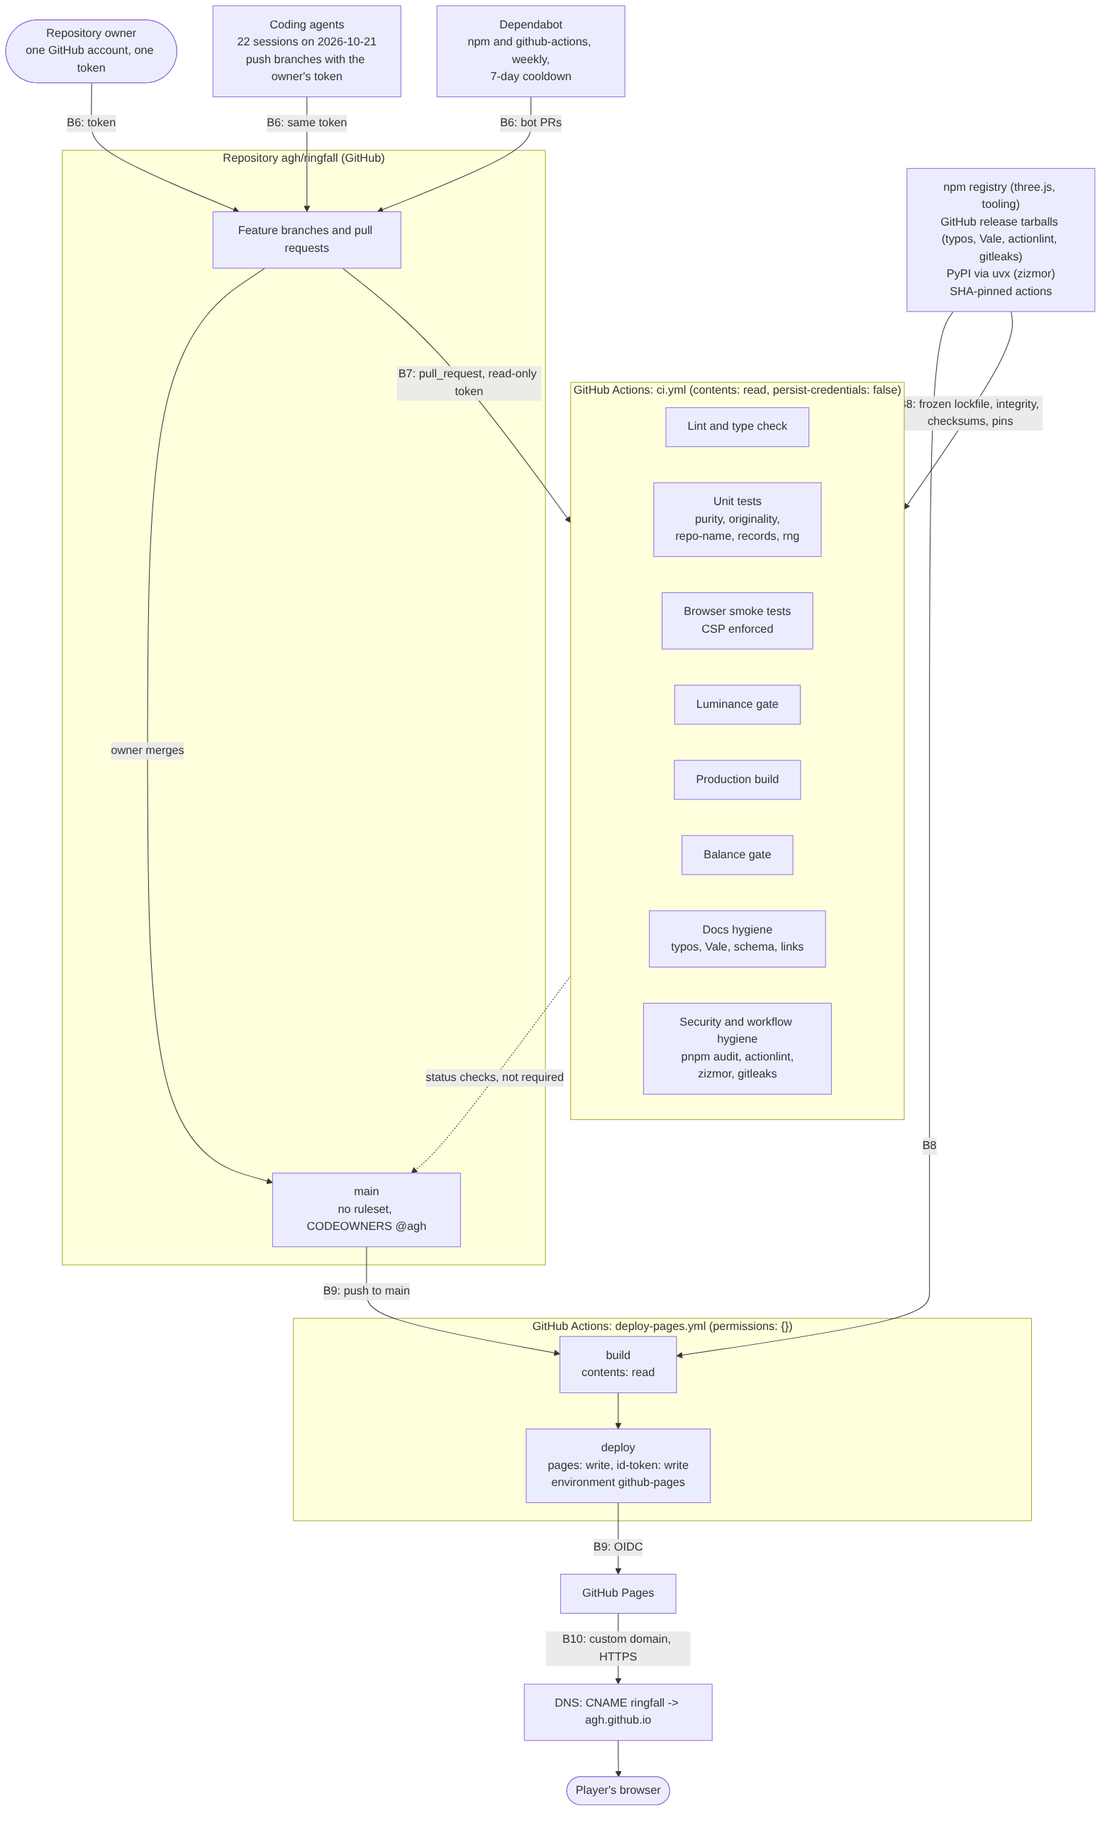
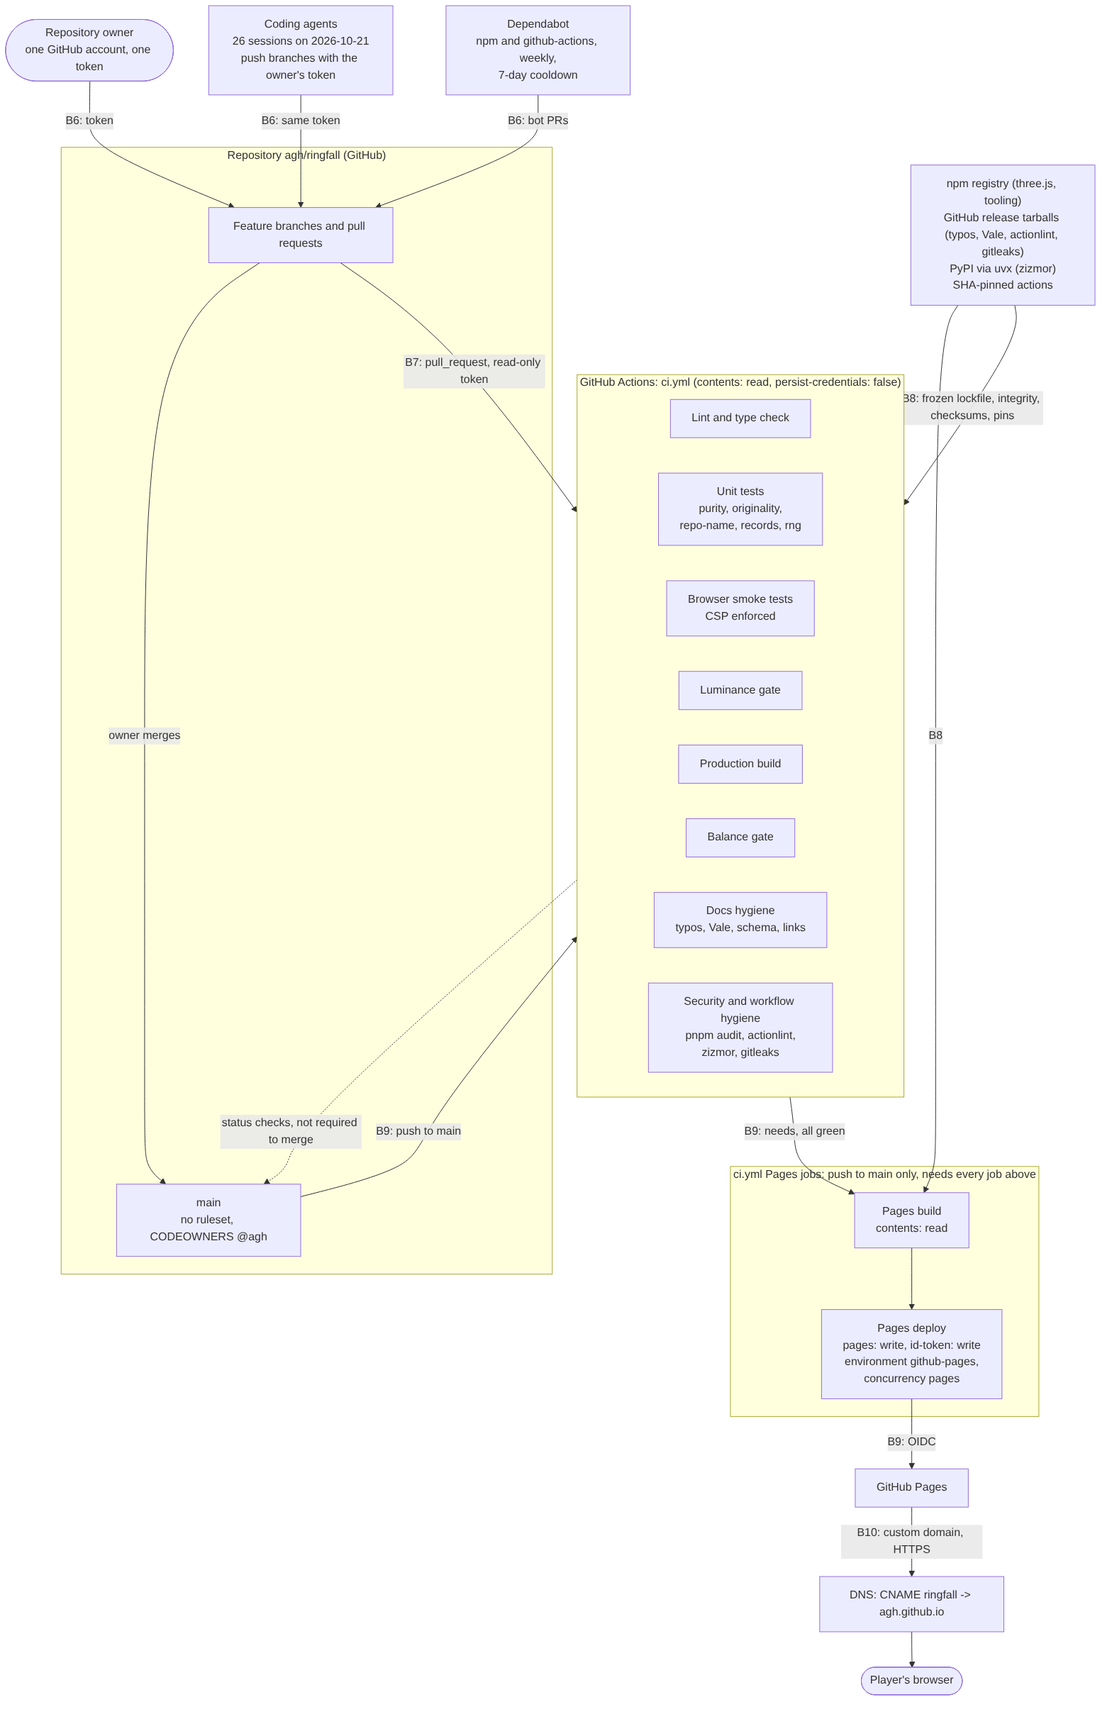
docs(security): re-verify the threat model against main after the merge
Main gained #76, #82 and #89 while the model was written: the Pages
deploy moved into ci.yml behind `needs`, the workflow_run trigger came
and went, the zizmor ignores were cleared, and the recorder gained its
frame-rate guard. Rows T10, T14, T17, T19 and T21, the delivery diagram,
the commit statistics and the finding index now describe main at 6fb2608,
including the failed and cancelled CI runs on main observed today.

Claude-Session: https://claude.ai/code/session_01FkQCT8nc3ZoC1LhNUB9pvV

Changed region(s): [[0.0312, 0.0, 0.9375, 0.9901], [0.8438, 0.0928, 0.9688, 0.1856], [0.0938, 0.4022, 0.1562, 0.4332]]

diff --git a/docs/threat-model.md b/docs/threat-model.md
@@ -22,7 +22,7 @@ and pull request #68. It names what is worth protecting, draws the two
 systems that touch it (the running game and the chain that delivers it),
 and lists every threat per trust boundary with the control that exists in
 the tree today, the gap if there is one, and the issue that tracks the gap.
-Every control is cited by file path as of `main` at `105ff4f`
+Every control is cited by file path as of `main` at `6fb2608`
 (2026-10-21). Where a row says "Fn", it means finding n in the ranked
 checklist on #52, applied by #68; the index at the end lists all 22 with
 their current status.
@@ -90,7 +90,7 @@ flowchart LR
 ```mermaid
 flowchart TB
   owner(["Repository owner<br/>one GitHub account, one token"])
-  agents["Coding agents<br/>22 sessions on 2026-10-21<br/>push branches with the owner's token"]
+  agents["Coding agents<br/>26 sessions on 2026-10-21<br/>push branches with the owner's token"]
   dependabot["Dependabot<br/>npm and github-actions, weekly,<br/>7-day cooldown"]
 
   subgraph repo["Repository agh/ringfall (GitHub)"]
@@ -111,10 +111,10 @@ flowchart TB
     security["Security and workflow hygiene<br/>pnpm audit, actionlint,<br/>zizmor, gitleaks"]
   end
 
-  subgraph deploy["GitHub Actions: deploy-pages.yml (permissions: {})"]
+  subgraph deploy["ci.yml Pages jobs: push to main only, needs every job above"]
     direction LR
-    dbuild["build<br/>contents: read"]
-    ddeploy["deploy<br/>pages: write, id-token: write<br/>environment github-pages"]
+    dbuild["Pages build<br/>contents: read"]
+    ddeploy["Pages deploy<br/>pages: write, id-token: write<br/>environment github-pages,<br/>concurrency pages"]
   end
 
   registries["npm registry (three.js, tooling)<br/>GitHub release tarballs (typos, Vale, actionlint, gitleaks)<br/>PyPI via uvx (zizmor)<br/>SHA-pinned actions"]
@@ -128,9 +128,10 @@ flowchart TB
   branches -->|"B7: pull_request, read-only token"| ci
   registries -->|"B8: frozen lockfile, integrity, checksums, pins"| ci
   registries -->|"B8"| dbuild
-  ci -.->|"status checks, not required"| main
+  ci -.->|"status checks, not required to merge"| main
   branches -->|"owner merges"| main
-  main -->|"B9: push to main"| dbuild --> ddeploy
+  main -->|"B9: push to main"| ci
+  ci -->|"B9: needs, all green"| dbuild --> ddeploy
   ddeploy -->|"B9: OIDC"| pagesHost
   pagesHost -->|"B10: custom domain, HTTPS"| dns --> player
 ```
@@ -140,7 +141,7 @@ flowchart TB
 | B6 | the owner, the agents the owner runs, Dependabot | the repository | commits and pull requests | twenty agent sessions pushed with one token in one afternoon; the repository has no rules about what a token may do to `main` |
 | B7 | the repository | GitHub Actions runners | workflow files, the `GITHUB_TOKEN`, third-party actions | a pull request runs third-party code from `node_modules` on a runner holding a token |
 | B8 | npm, PyPI, GitHub releases, the actions marketplace | the runner and the developer's machine | packages, binaries, actions | the build runs whatever those hosts serve; pins and checksums are the only defense |
-| B9 | `main` | GitHub Pages | the built `dist/` through an OIDC deployment | the one write path to the site |
+| B9 | `main` | GitHub Pages | the built `dist/` through an OIDC deployment, from the `pages-build` and `pages-deploy` jobs at the end of `ci.yml` | the one write path to the site |
 | B10 | GitHub Pages | DNS and the player | the custom domain `ringfall.alexhowells.com` | a dangling or wrongly set record points players somewhere else |
 
 ## 2. Assets
@@ -165,7 +166,7 @@ Each row is one threat, classified with STRIDE (Spoofing, Tampering,
 Repudiation, Information disclosure, Denial of service, Elevation of
 privilege). Likelihood and impact are low, medium or high on the same
 three-point scale as [risks.md](risks.md). "Control today" cites the file
-that implements it at `105ff4f`; "Gap" is what the control does not cover;
+that implements it at `6fb2608`; "Gap" is what the control does not cover;
 "Issue" is where the gap is tracked. A row with no gap has no issue.
 
 ### 3.1 Running game: B1 to B5
@@ -186,24 +187,24 @@ that implements it at `105ff4f`; "Gap" is what the control does not cover;
 
 | ID | Boundary | STRIDE | Threat | Likelihood | Impact | Control today (file, finding) | Gap | Issue |
 | -- | -------- | ------ | ------ | ---------- | ------ | ----------------------------- | --- | ----- |
-| T10 | B6 | Elevation, Tampering | An agent session, or a person holding the owner's token, pushes directly to `main`, force-pushes over history, deletes the branch, or merges a pull request whose checks are red. See "Agent-built supply chain" below. | Medium | High | Every merge on 2026-10-21 was made by the owner; `CONTRIBUTING.md` closes external pull requests; `.github/CODEOWNERS` names `@agh`; `ci.yml` runs on every push to `main` to completion (`cancel-in-progress` only on pull requests, F10), so a bad merge is at least visible. | `main` has no ruleset or branch protection, so none of this is enforced: force push, deletion and merge on red are all one command away (F2). CODEOWNERS is inert without a rule. | #85 |
-| T11 | B6 | Repudiation | It is not possible to tell afterwards which agent or person authored a change, or a trailer is forged. | Medium | Low | 88 of the 137 commits at `105ff4f` carry a `Co-Authored-By` or `Claude-Session` trailer naming the session (`git log`); `AGENTS.md` "Agency and sessions" forbids agents speaking as a person and requires verification evidence; the pull request template demands a transcript for every claim. | Trailers are self-asserted. 28 commits are signed and 109 are not (`git log --format=%G?` at `105ff4f`); nothing requires signatures. A ruleset can require signed commits once one exists. | #85 |
+| T10 | B6 | Elevation, Tampering | An agent session, or a person holding the owner's token, pushes directly to `main`, force-pushes over history, deletes the branch, or merges a pull request whose checks are red. See "Agent-built supply chain" below. | Medium | High | Every merge on 2026-10-21 was made by the owner; `CONTRIBUTING.md` closes external pull requests; `.github/CODEOWNERS` names `@agh`; `ci.yml` runs on every push to `main` and is meant to run to completion (`cancel-in-progress` only on pull requests, F10), so a bad merge is at least visible. | `main` has no ruleset or branch protection, so none of this is enforced: force push, deletion and merge on red are all one command away (F2). CODEOWNERS is inert without a rule. It happened: CI run 102 on `main` (the merge of #75) concluded failure on 2026-10-21 and four more pull requests merged on top of it; runs 104, 105 and 111 on `main` ended cancelled when the next push arrived, so F10's expression is to be re-checked (#86). | #85, #86 |
+| T11 | B6 | Repudiation | It is not possible to tell afterwards which agent or person authored a change, or a trailer is forged. | Medium | Low | 110 of the 180 commits at `6fb2608` carry a `Co-Authored-By` or `Claude-Session` trailer naming the session (`git log`); `AGENTS.md` "Agency and sessions" forbids agents speaking as a person and requires verification evidence; the pull request template demands a transcript for every claim. | Trailers are self-asserted. 36 commits are signed and 144 are not (`git log --format=%G?` at `6fb2608`); nothing requires signatures. A ruleset can require signed commits once one exists. | #85 |
 | T12 | B6 | Information disclosure | A token, key or password is committed. | Low | High | `ci.yml` job `Security and workflow hygiene`: gitleaks 8.30.1 (SHA-256 verified download) over the working tree and the pushed commits with `.gitleaks.toml`, plus a self-test that the allowlist still catches a realistic `ghp_` and `sk_live_` token; `.pre-commit-config.yaml` runs gitleaks and `detect-private-key`; #68's sweep of the tree and `git log --all -p` found nothing (F22). | GitHub-side secret scanning and push protection are repository settings not yet confirmed on (F22). | #85 |
 | T13 | B6 | Tampering | A commit breaks an invariant that no reviewer would catch by eye: a `three` import or a clock in the pure core, a franchise term, a self-reference to the old repository name, a gameplay number that no longer matches the design document. | High | Medium | `tests/unit/purity.test.ts` and Biome restrict `src/core` to no `three`, `window`, `document`, `Date.now`, `Math.random`; `tests/unit/originality.test.ts` greps every tracked file outside `docs/research/` for the term list in `tests/unit/originality.terms.ts` (ADR-0003); `tests/unit/repo-name.test.ts` rejects the old repository path; `tests/unit/design-doc.test.ts` ties constants to `docs/design-doc.md`; `tests/balance/` and the `Luminance gate` job bound behavior and brightness. | None. These are the tests that did the stopping on 2026-10-21; see below. | none |
-| T14 | B7 | Elevation | A pull request workflow steals the `GITHUB_TOKEN`, writes to the repository, or runs an action whose upstream was replaced. | Low | High | `ci.yml` top-level `permissions: contents: read`; every `actions/checkout` has `persist-credentials: false`; no `pull_request_target` or `workflow_run` trigger; no `${{ }}` expression inside a `run:` (verified by #68); every `uses:` is pinned to a commit SHA with its tag in a comment, and #68 confirmed each SHA resolves to that tag; `deploy-pages.yml` has `permissions: {}` with `contents: read` on `build` and `pages: write`, `id-token: write` only on `deploy`, which checks nothing out (F9). actionlint 1.7.12 and zizmor 1.31.1 at `--persona=pedantic` run on every pull request (`ci.yml` security job); Dependabot proposes action bumps weekly after a 7-day cooldown (`.github/dependabot.yml`, F12). | The repository-level Actions defaults (read-only token, approval for fork pull requests, allowed actions) could not be read (F20). They matter the day the repository is public. | #85 |
+| T14 | B7 | Elevation | A pull request workflow steals the `GITHUB_TOKEN`, writes to the repository, or runs an action whose upstream was replaced. | Low | High | `ci.yml` top-level `permissions: contents: read`; every `actions/checkout` has `persist-credentials: false`; `ci.yml` is the only workflow and has no `pull_request_target` or `workflow_run` trigger (#76 added a `workflow_run` deploy trigger and #89 removed it the same hour because zizmor rejects it); no `${{ }}` expression inside a `run:` (verified by #68); every `uses:` is pinned to a commit SHA with its tag in a comment, and #68 confirmed each SHA resolves to that tag; the `pages-deploy` job alone holds `pages: write` and `id-token: write`, checks nothing out, and runs only after `pages-build`, which has `contents: read` (F9, moved from `deploy-pages.yml` into `ci.yml` by #89). actionlint 1.7.12 and zizmor 1.31.1 at `--persona=pedantic` run on every pull request (`ci.yml` security job); Dependabot proposes action bumps weekly after a 7-day cooldown (`.github/dependabot.yml`, F12). | The repository-level Actions defaults (read-only token, approval for fork pull requests, allowed actions) could not be read (F20). They matter the day the repository is public. | #85 |
 | T15 | B7 | Repudiation | Evidence of a failing browser run is lost: the `playwright-report` artifact is uploaded on failure but is always empty. | High | Low | `ci.yml` uploads an artifact on e2e failure; `playwright.config.ts` writes traces on first retry to `test-results/`. | The artifact path is `playwright-report`, which the `github` reporter never writes (F14). | #86 |
 | T16 | B7, B8 | Tampering | A tool downloaded at CI time is substituted. | Low | Medium | typos, Vale, actionlint and gitleaks are fetched from GitHub releases at pinned versions and checked with `sha256sum --check --strict` before use (`ci.yml` docs and security jobs); `astral-sh/setup-uv` is SHA-pinned; Chromium comes from Playwright's own pinned distribution. | zizmor is run through `uvx --from zizmor==1.31.1` with a version pin only, no checksum; a PyPI compromise of that exact release would run on the runner with a read-only token. Accepted: the runner holds nothing to steal and the job runs no project code afterwards. | none (accepted) |
-| T17 | B7 | Tampering | A workflow regression goes unnoticed because a finding is suppressed. | Medium | Low | `.github/zizmor.yml` documents every ignore with the change that removes it. | Two of the three ignores for `deploy-pages.yml` describe a workflow-level `pages: write` grant that #68 already moved under the `deploy` job; they should be removed so a regression there is reported again. | #86 |
+| T17 | B7 | Tampering | A workflow regression goes unnoticed because a finding is suppressed. | Medium | Low | `.github/zizmor.yml` carries no ignores (`rules: {}` since #89); every zizmor finding at `--persona=pedantic` fails the security job. | None. | none |
 | T18 | B8 | Tampering | A hijacked or typosquatted npm release is installed on a developer machine or the runner; a lifecycle script runs on install. | Medium | High | `package.json` pins every dependency exactly, `pnpm-lock.yaml` carries sha512 integrity for each, every workflow job runs `pnpm install --frozen-lockfile`; `pnpm-workspace.yaml` `minimumReleaseAge: 1440` (nothing younger than a day resolves) and `onlyBuiltDependencies: []` (no dependency runs an install script); `.npmrc` `engine-strict=true` (F11); `.github/dependabot.yml` `versioning-strategy: increase`, `cooldown: 7 days`, grouped dev tooling (F12); `pnpm audit --audit-level=high` gates every pull request (`ci.yml` security job, from #62) with `pnpm.overrides` lifting the advisories that have fixes (F4). The one runtime dependency is `three@0.186.1`. | `GHSA-vfj7-8cjw-p6xm` (`braces`, high, reached only through `markdownlint-cli2` expanding the repository's own glob) is ignored under `pnpm.auditConfig` because no fixed release exists; the ignore is to be removed when one ships (recorded in #62). Dependency review on pull requests needs the dependency graph enabled by an admin. | #85 (dependency review); the `braces` ignore is residual risk, see section 5 |
-| T19 | B9 | Elevation, Tampering | Something other than a completed push to `main` deploys to the site, or a broken `main` deploys. | Low | High | `deploy-pages.yml` runs on `push` to `main` and `workflow_dispatch` only; the OIDC token is minted only in the `deploy` job inside the `github-pages` environment (F9); `concurrency: pages` with `cancel-in-progress: false`; CI on `main` runs to completion so a red `main` is visible (F10); the launch checklist refuses a tag unless CI is green on the exact commit. | The `github-pages` environment has no deployment-branch restriction (F21), and the deploy workflow does not wait for CI: a merge on red deploys. Required status checks on `main` (T10) close the second half by construction. | #85 |
+| T19 | B9 | Elevation, Tampering | Something other than a completed push to `main` deploys to the site, or a broken `main` deploys. | Low | High | The `pages-build` job in `ci.yml` runs only on `push` to `refs/heads/main` and `needs` every other job (lint, unit, frames, build, balance, docs, security), so a red `main` does not deploy (#89); the OIDC token is minted only in `pages-deploy` inside the `github-pages` environment (F9); `concurrency: pages` with `cancel-in-progress: false` keeps deploys in order; the launch checklist refuses a tag unless CI is green on the exact commit. | The `github-pages` environment has no deployment-branch restriction (F21). A run on `main` that is cancelled rather than failed (see T10) deploys nothing, which is safe, but leaves the site behind `main` with no signal. | #85 |
 | T20 | B10 | Spoofing | Players are sent to a host that does not serve the game: the links in `README.md`, `CONTRIBUTING.md`, `.github/ISSUE_TEMPLATE/config.yml` and `docs/launch-checklist.md`. | High (today) | Low | #74 pointed every self-reference at `agh/ringfall`; `README.md` names the custom domain and the interim Pages URL (F18). | Both hosts return 404 until Pages is enabled (T1). | #85 |
-| T21 | B6 | Repudiation, Tampering | A film, a frame or a balance number describes a build other than the one in the tree, or a claim in a document is not backed by a run. | Medium | Medium | The recorder steps the simulation deterministically from a seed (`?record&bot&seed=N`, `src/main.ts`); `pnpm balance` and `pnpm frames` run in CI and upload their reports as artifacts (`ci.yml`); `AGENTS.md` requires every verification claim to link execution evidence; `.github/PULL_REQUEST_TEMPLATE.md` demands transcripts; `docs/launch-checklist.md` requires the film to be regenerated from the tagged commit and screenshots from a clean profile. | `scripts/record-demo.mjs` accepts a frame rate that does not divide 60 and labels the film with a seed it then plays at the wrong speed (F15); two documentation audits (#54) found present-tense claims about features that did not exist and corrected them, which is a process the tree cannot enforce. | #87 (scripts); #54 (documentation) |
+| T21 | B6 | Repudiation, Tampering | A film, a frame or a balance number describes a build other than the one in the tree, or a claim in a document is not backed by a run. | Medium | Medium | The recorder steps the simulation deterministically from a seed (`?record&bot&seed=N`, `src/main.ts`); `pnpm balance` and `pnpm frames` run in CI and upload their reports as artifacts (`ci.yml`); `AGENTS.md` requires every verification claim to link execution evidence; `.github/PULL_REQUEST_TEMPLATE.md` demands transcripts; `docs/launch-checklist.md` requires the film to be regenerated from the tagged commit and screenshots from a clean profile. | `scripts/reel.mjs` derives the web encode name from `--out` without checking its extension, and `record-demo.mjs` and `render-score.mjs` leave a preview server behind on failure (F15; the frame-rate guard half of F15 landed in #76, `scripts/record-demo.mjs` lines 30 to 34); two documentation audits (#54) found present-tense claims about features that did not exist and corrected them, which is a process the tree cannot enforce. | #87 (scripts); #54 (documentation) |
 
 ### 3.3 Agent-built supply chain
 
-On 2026-10-21, between 14:30 and 18:02 UTC, 22 distinct coding-agent
-sessions (counted from `Claude-Session` trailers in `git log` at `105ff4f`)
-and two Copilot branches pushed to this repository, and 26 pull requests
+On 2026-10-21, between 14:30 and 18:15 UTC, 26 distinct coding-agent
+sessions (counted from `Claude-Session` trailers in `git log` at `6fb2608`)
+and two Copilot branches pushed to this repository, and 34 pull requests
 were merged, all with the owner's account. That is boundary B6 at its widest,
 and it deserves its own account of what stopped a bad commit and what did
 not.
@@ -238,7 +239,8 @@ What did not, and would not have:
   because the repository required it.
 - **CODEOWNERS and the status checks were advisory.** No check was
   required, so a merge with the Luminance gate still running or red was
-  one click.
+  one click, and CI run 102 on `main` did fail with merges continuing on
+  top of it (T10).
 - **One token for twenty sessions.** A prompt-injected agent (a fetched
   page or an issue comment that redirected it) would have had the owner's
   full write access. The mitigations are rulesets on `main` and, when the
@@ -348,7 +350,7 @@ ticked only with the date of that reading.
 
 ## Appendix: the 22 findings from #52 and #68
 
-Status at `105ff4f`. "Fixed" means the control is in the tree and cited in
+Status at `6fb2608`. "Fixed" means the control is in the tree and cited in
 the row named; "Admin" means only the owner can set it; "Open" means an
 issue tracks it; "Accepted" means the residual risk is stated in section 5.
 
@@ -362,13 +364,13 @@ issue tracks it; "Accepted" means the residual risk is stated in section 5.
 | 6 | Medium | Full source maps shipped | Fixed (`vite.config.ts`) | T9 |
 | 7 | Low | Personal bests parsed without validation | Fixed (`src/core/records.ts`) | T7 |
 | 8 | Low | `?seed` aliasing through `Number()` | Fixed (`src/core/rng.ts`) | T5 |
-| 9 | Low | Deploy workflow over-privileged | Fixed (`.github/workflows/deploy-pages.yml`) | T14, T19 |
-| 10 | Low | CI on `main` cancelled by the next push | Fixed (`.github/workflows/ci.yml`) | T10, T19 |
+| 9 | Low | Deploy workflow over-privileged | Fixed (#68 in `deploy-pages.yml`; carried into the `pages-deploy` job of `.github/workflows/ci.yml` by #89) | T14, T19 |
+| 10 | Low | CI on `main` cancelled by the next push | Fixed in `.github/workflows/ci.yml`; cancellations of runs on `main` observed again on 2026-10-21, re-check tracked | T10, #86 |
 | 11 | Low | No pnpm hardening | Fixed (`pnpm-workspace.yaml`, `.npmrc`) | T18 |
 | 12 | Low | Dependabot without pin strategy, cooldown or grouping | Fixed (`.github/dependabot.yml`) | T14, T18 |
 | 13 | Low | Script arguments unvalidated | Fixed (`scripts/lib/args.mjs`) | T21 |
 | 14 | Low | `playwright-report` artifact always empty | Open | T15, #86 |
-| 15 | Low | Recorder frame-rate and cleanup nits | Open | T21, #87 |
+| 15 | Low | Recorder frame-rate and cleanup nits | Partly fixed (frame-rate guard, #76); rest open | T21, #87 |
 | 16 | Info | `window.ringfallDebug` ungated | Open | T6, #84 |
 | 17 | Info | Page is framable | Accepted | T4 |
 | 18 | Info | Stale links to the Pages URL | Superseded by #74; the host answers once A1 is done | T20, #85 |
